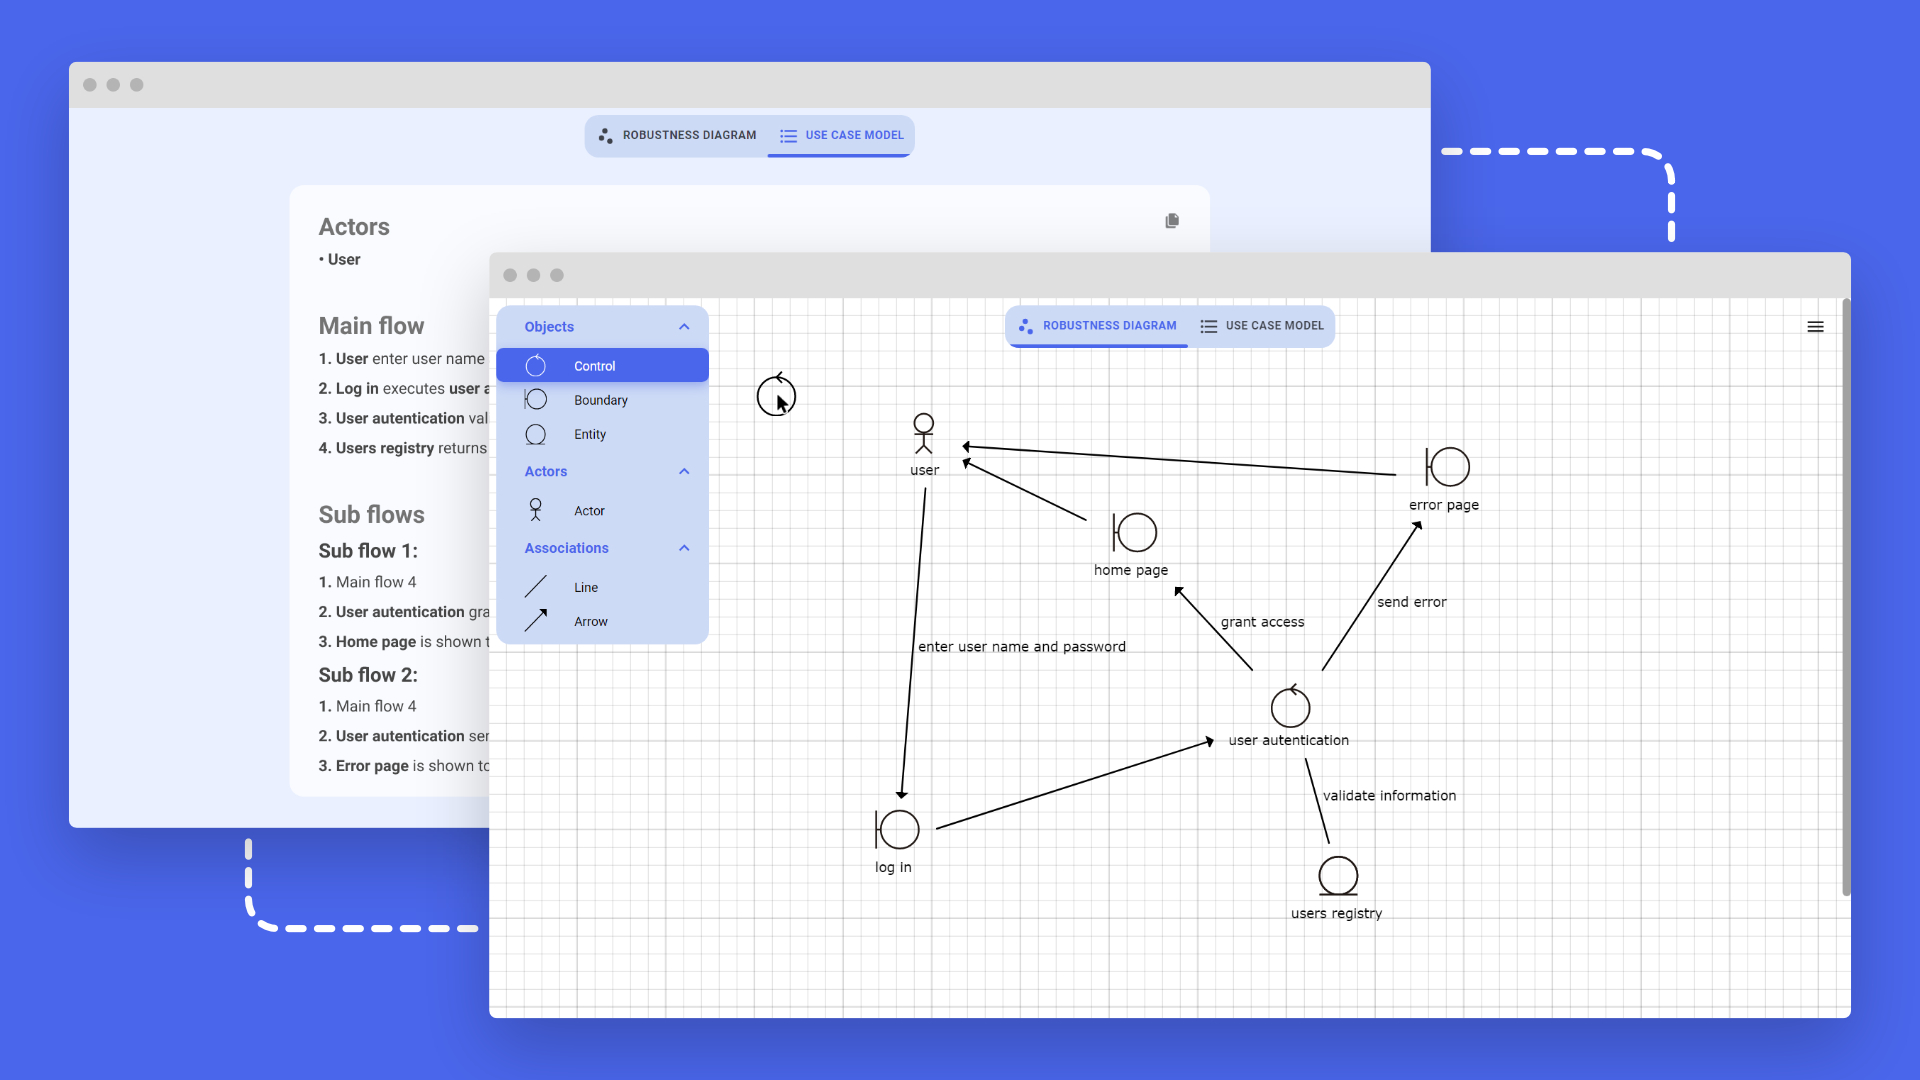
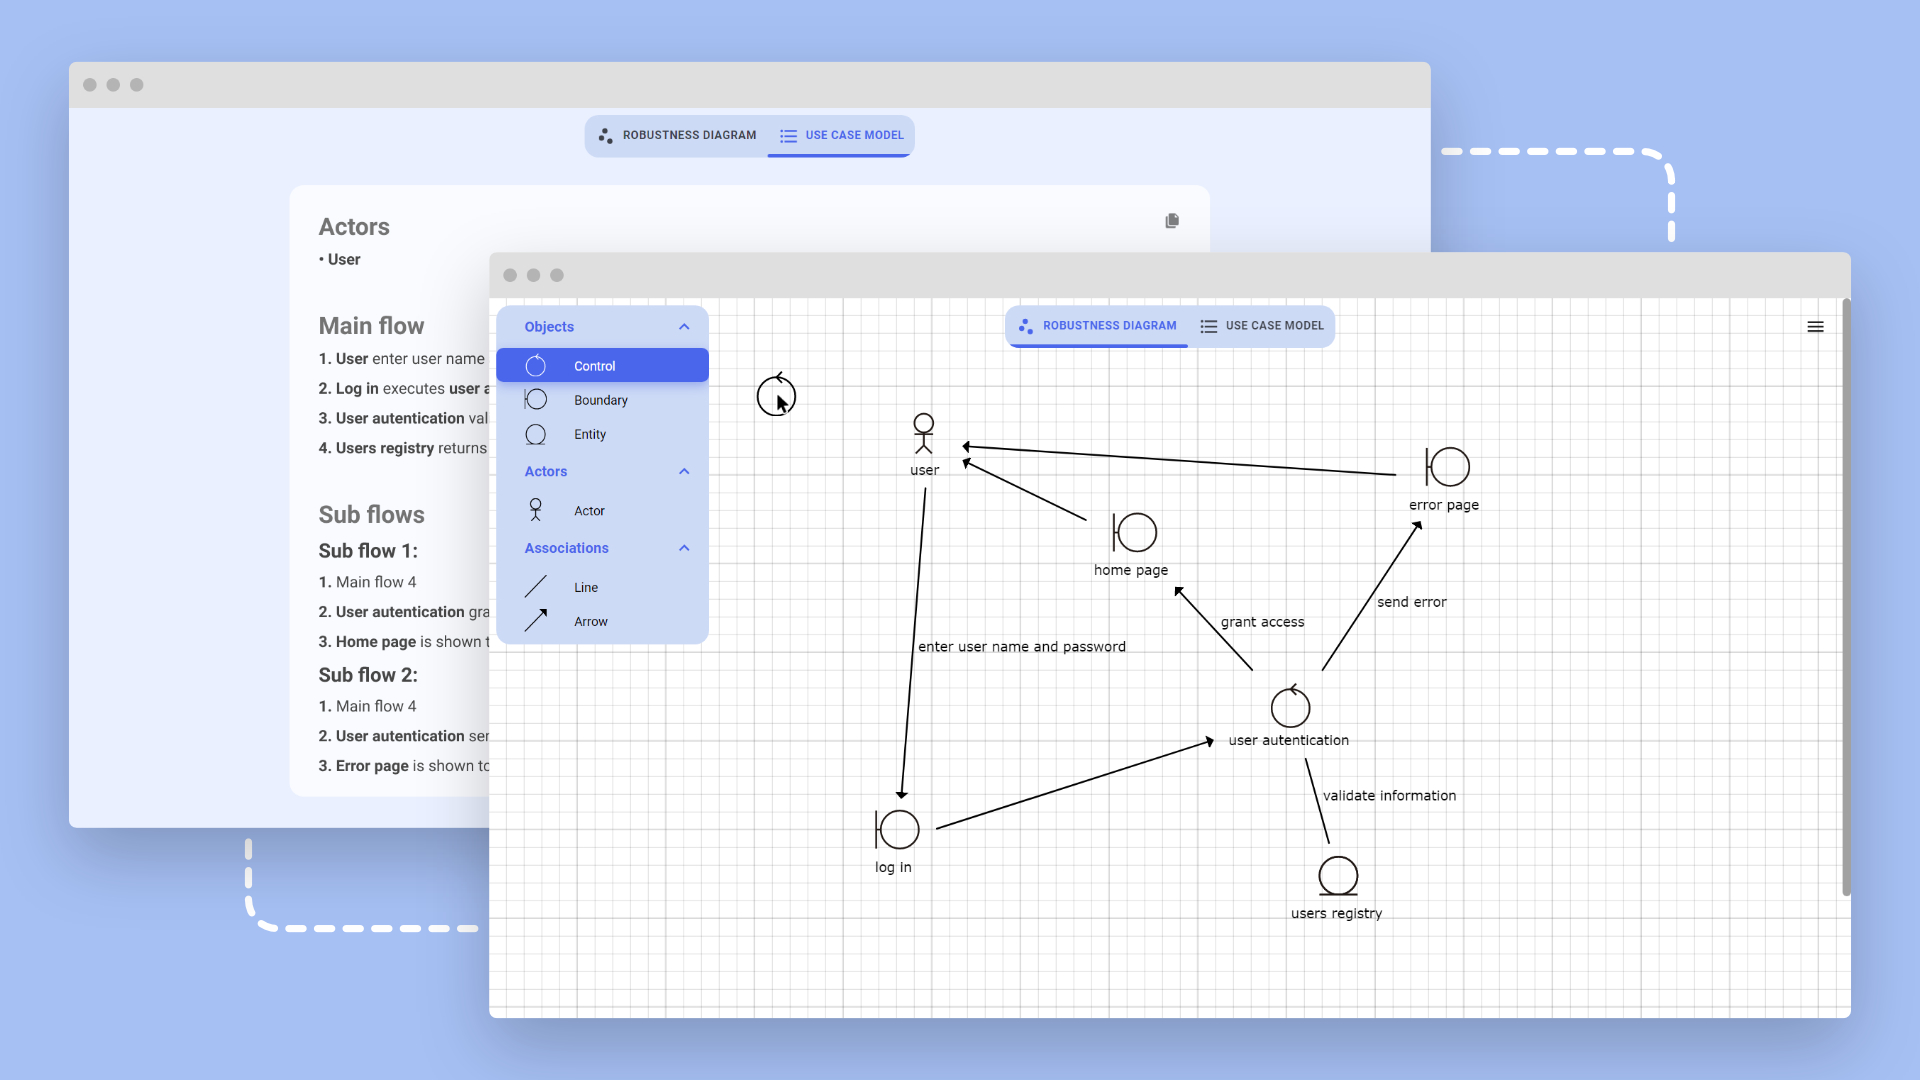
reset cursor when scroll and color palette changes

Changed region(s): [[0.0, 0.0, 1.0, 1.0]]

diff --git a/src/components/landing/Landing.js b/src/components/landing/Landing.js
@@ -6,11 +6,13 @@ import Who from "./Who";
 import Contact from "./Contact";
 import Work from "./Work";
 import useWindowSize from "../../hooks/useWindowSize";
+import useWindowScroll from "../../hooks/useWindowScroll";
 
 export default function Landing() {
-  const { state } = useContext(Context);
+  const { state, actions } = useContext(Context);
   const size = useWindowSize();
   const scrollContainer = useRef();
+  const windowScroll = useWindowScroll();
   const data = {
     ease: 0.05,
     current: 0,
@@ -37,6 +39,18 @@ export default function Landing() {
       });
     }
   }, [state.project.isOpened]);
+
+  useEffect(() => {
+    if (
+      document.querySelector("#work > :nth-child(1)[data-scroll='out']") &&
+      document.querySelector("#work > :nth-child(2)[data-scroll='out']")
+    ) {
+      actions({
+        type: "setState",
+        payload: { ...state, cursor: { type: "default" } },
+      });
+    }
+  }, [windowScroll]);
 
   // Scrolling
   const skewScrolling = () => {

diff --git a/src/App.js b/src/App.js
@@ -39,10 +39,10 @@ export default function App() {
         color.current = document.querySelector(
           "#work > :nth-child(1)[data-scroll='in']"
         )
-          ? { background: 0xfae3cc, brush: 0xeec08a }
+          ? { background: 0xfde8d7, brush: 0xffcca5 }
           : document.querySelector("#work > :nth-child(2)[data-scroll='in']")
-          ? { background: 0xccdaf5, brush: 0xa1baec }
-          : { background: 0xf2ebe3, brush: 0xc8baa5 };
+          ? { background: 0xccdaf5, brush: 0xa6c0f4 }
+          : { background: 0xf2ebe3, brush: 0xd9c7ad };
         scratchCard.repaint(color.current);
         lastProject.current = project.current;
       }

diff --git a/src/styles/landing.scss b/src/styles/landing.scss
@@ -451,8 +451,13 @@ $color: set-color($bg-color);
       transform-origin: center;
       transition: all 0.5s ease-out;
       &.open {
-        + .title > div > div {
-          opacity: 0;
+        + .title > div {
+          > h1 {
+            color: #ebebeb;
+          }
+          > div {
+            opacity: 0;
+          }
         }
         /*
         //right: 25%;
@@ -510,6 +515,8 @@ $color: set-color($bg-color);
           font-family: "Poppins", sans-serif;
           font-weight: 600;
           transform-origin: 0;
+          line-height: 1.2em;
+          transition: color 0.5s ease-out;
         }
         > div {
           transform-origin: 0;

diff --git a/src/styles/landing.css b/src/styles/landing.css
@@ -524,6 +524,10 @@
         */
 }
 
+#work > .project .mockup.open + .title > div > h1 {
+  color: #ebebeb;
+}
+
 #work > .project .mockup.open + .title > div > div {
   opacity: 0;
 }
@@ -573,6 +577,9 @@
   font-weight: 600;
   -webkit-transform-origin: 0;
           transform-origin: 0;
+  line-height: 1.2em;
+  -webkit-transition: color 0.5s ease-out;
+  transition: color 0.5s ease-out;
 }
 
 #work > .project .title > div > div {

diff --git a/src/components/landing/Contact.js b/src/components/landing/Contact.js
@@ -7,7 +7,7 @@ export default function Contact() {
   const [shining, setShining] = useState(false);
   const [word, setWord] = useState("proposal?");
   const { state, actions } = useContext(Context);
-  const words = ["proposal?", "project?", "idea?"];
+  const words = ["project?", "idea?", "proposal?", "job?"];
   const currentWord = useRef(0);
   const currentLength = useRef(words[0].length);
   const dir = useRef(false);

diff --git a/src/scratchCard.js b/src/scratchCard.js
@@ -43,7 +43,7 @@ gContainer.scale.set(0.5);
 gContainer.filters = [blurFilter];
 
 let imageToReveal = new PIXI.Sprite(PIXI.Texture.WHITE);
-imageToReveal.tint = 0xc8baa5;
+imageToReveal.tint = 0xd9c7ad;
 stage.addChild(imageToReveal);
 imageToReveal.width = app.screen.width;
 imageToReveal.height = app.screen.height;

diff --git a/src/styles/project.scss b/src/styles/project.scss
@@ -19,8 +19,8 @@
 
       .modal-content {
         padding-bottom: 10rem;
-        background-color: #f4f4f4;
-        margin-top: 53vh;
+        background-color: #ebebeb;
+        margin-top: 45vh;
         padding-top: calc(min(10vw, 3rem));
         //transition: all 1s ease;
 

diff --git a/src/styles/project.css b/src/styles/project.css
@@ -17,8 +17,8 @@
 
 #project .modal .modal-scroll .modal-content {
   padding-bottom: 10rem;
-  background-color: #f4f4f4;
-  margin-top: 53vh;
+  background-color: #ebebeb;
+  margin-top: 45vh;
   padding-top: calc(min(10vw, 3rem));
 }
 
